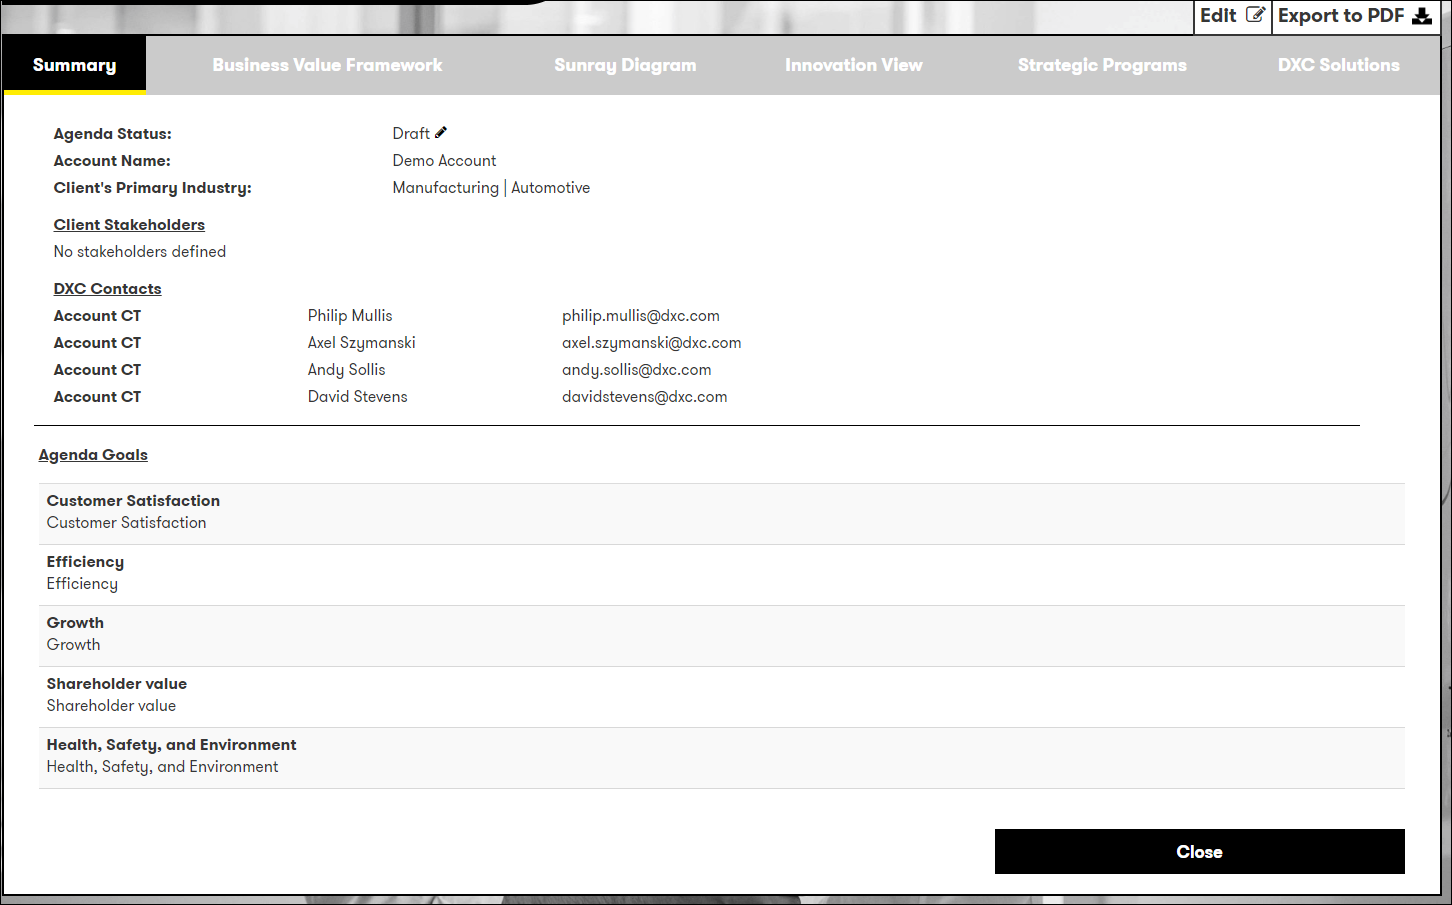
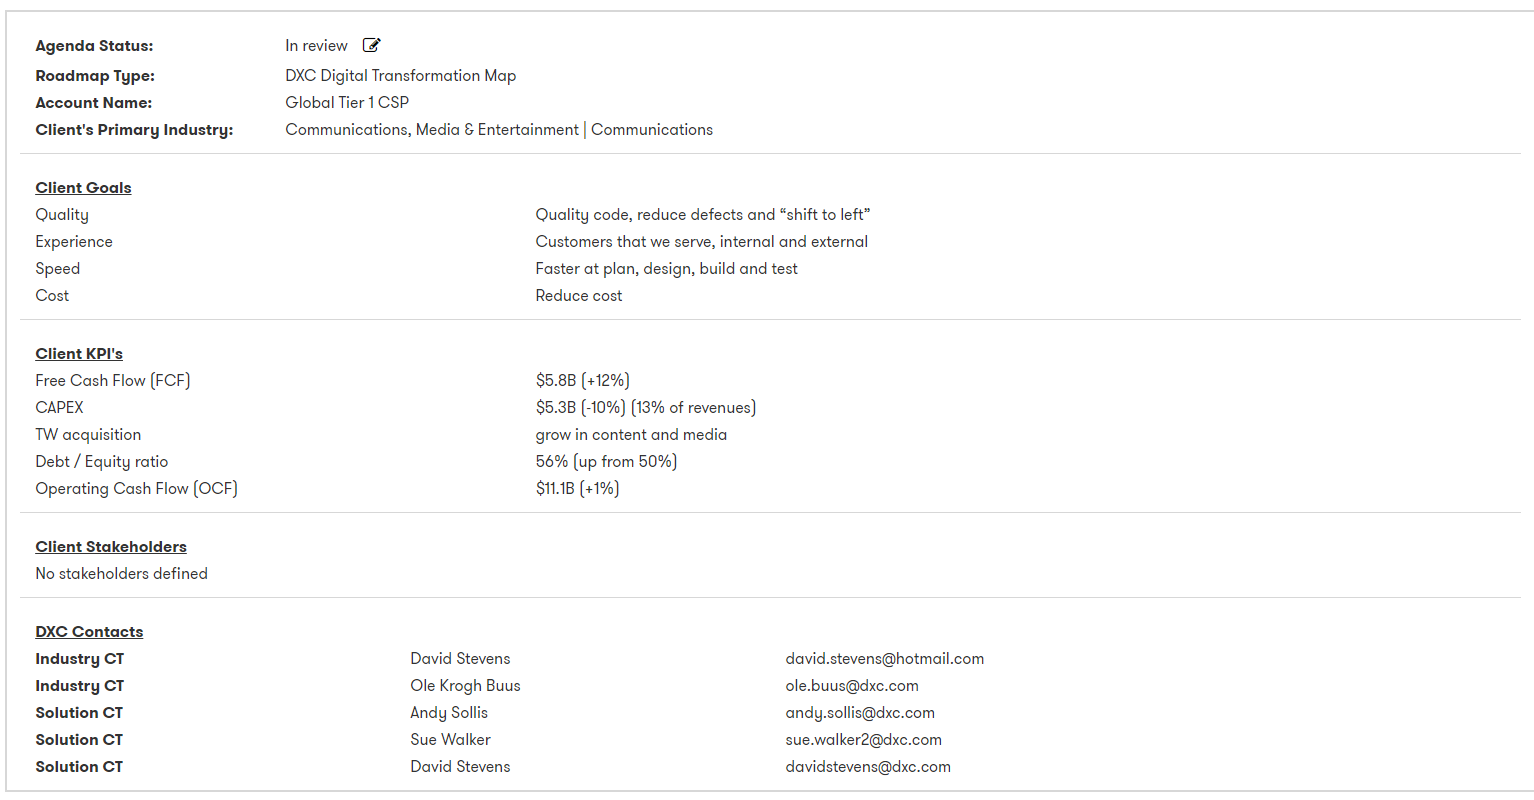
:pencil: Updates to match new roadmap output style

Changed region(s): [[0.0, 0.0, 1.0, 1.0], [0.3409, 0.25, 0.5579, 0.625], [0.2169, 0.3438, 0.2789, 0.4688]]

diff --git a/training/Roadmaps/RoadmapOutput.md b/training/Roadmaps/RoadmapOutput.md
@@ -6,10 +6,9 @@ Once you have completed your roadmap within the canvas you are presented with th
 The output is broken down into the following sections
 
 - [Summary](Summary)
-- [Business Value Framework](Business-Value-Framework)
-- [Sunray Diagram](Sunray-Diagram)
-- [Innovation View](Innovation-View)
-- [Strategic Programs](Strategic-Programs)
+- [Sunray Diagram or TMAP](Sunray-or-TMAP-Diagram)
+- [Risk Ambition Profile](Risk-Ambition-Profile)
+- [Ideas](Ideas)
 - [DXC Solutions](DXC-Solutions)
 
 ### Summary view
@@ -17,13 +16,11 @@ Presenting to introduction information of the roadmap, from this tab you can als
 ![agenda1](images/agenda13.png)<br>
 
 #### Export to PDF
-The PDF export include all sections of the innovation roadmap, except **Strategic Programs** and **DXC Solutions**
+The PDF export include all sections of the innovation roadmap, except **Ideas** and **DXC Solutions**
 
-### Business Value Framework
-The Business Value Framework tab presents the uploaded BVF, if no BVF has been uploaded you can do so from this tab
-
-### Sunray Diagram
-You can control elements of the sunray diagram by using the controls on the right hand side.<br>
+### Sunray or TMAP Diagram
+![agenda1](images/SampleTMAP.png)<br>
+You can control elements of the diagram by using the controls on the right hand side.<br>
 ![agenda1](images/agenda14.png)<br>
 By default sizing is set to the `Innovation Level` defined for each trend<br><br>
 
@@ -35,8 +32,8 @@ The trends within the sunray diagram are colour coded based on their type and al
 - Technology trends are blue
 - Focus areas have a yellow edge
 
-### Innovation View 
-The innovation view is an interactive table for you to focus the content of the roadmap to the current conversation<br>
+### Risk Ambition Profile
+The Risk Ambition Profile view is an interactive table for you to focus the content of the roadmap to the current conversation<br>
 ![agenda1](images/agenda19.png)<br>
 You can control the horizontal and vertical dimensions using the options at the top of the page.<br>
 ![agenda1](images/agenda15.png)<br>
@@ -46,25 +43,34 @@ You can also control which client value chains and the types of trends to be sho
 :information_desk_person: You can edit any of the trend cards by double clicking on them.
 
 
-### Strategic Programs
-As you progress with the development of your innovation roadmap you will ultimately create one or more Strategic Initiatives for the account team to carry forwards.<br><br>
-:bulb: Only focus trends can be included within Strategic Initiatives<br>
+### Ideas
+As you progress with the development of your digital blueprint you will ultimately capture one or more Ideas for the account team to carry forwards.<br><br>
+:bulb: Only focus trends can be included within Ideas<br>
 
 ![roadmap1](images/agenda17.png)<br>
 
-The following information is required for each Strategic Initiatives
+The following information is required for each Idea
 
 - Name
 - Description
 - SFDC ID (optional)
+- Client Goals (optional)
+- Client KPI's (optional)
 - Focus Areas
 
-You can also select any of the goals or KPI's defined within the roadmap within the Strategic Initiatives.<br>
 :bulb: The goals, KPI's and focus trends captured here - go on to form the initial business view of the planned solution.
 
-### DXC Solutions
+### Summary
+The summary view is essentially your Account Business Value Framework<br>
+![](images/SampleBVF.png)<br>
+
+:bulb: You can switch between a full and compact view within the summary view<br>
+:bulb: If ideas have been crated, you can select and get a focused view on the included Goals, KPI's and Trends 
+
+### DXC Catalog Solutions
 The DXC Solutions tab presents a list of all available solutions within Digital Explorer with a relationship to one or more of the trends within the roadmap.   You can filter the list based on `Solution types` and `Status`
 
 ![agenda1](images/agenda18.png)<br>
 
 :bulb: To view a solution, click on the solution name
+:bulb: You can add any solution into a DXC Digital Explorer Workspace
